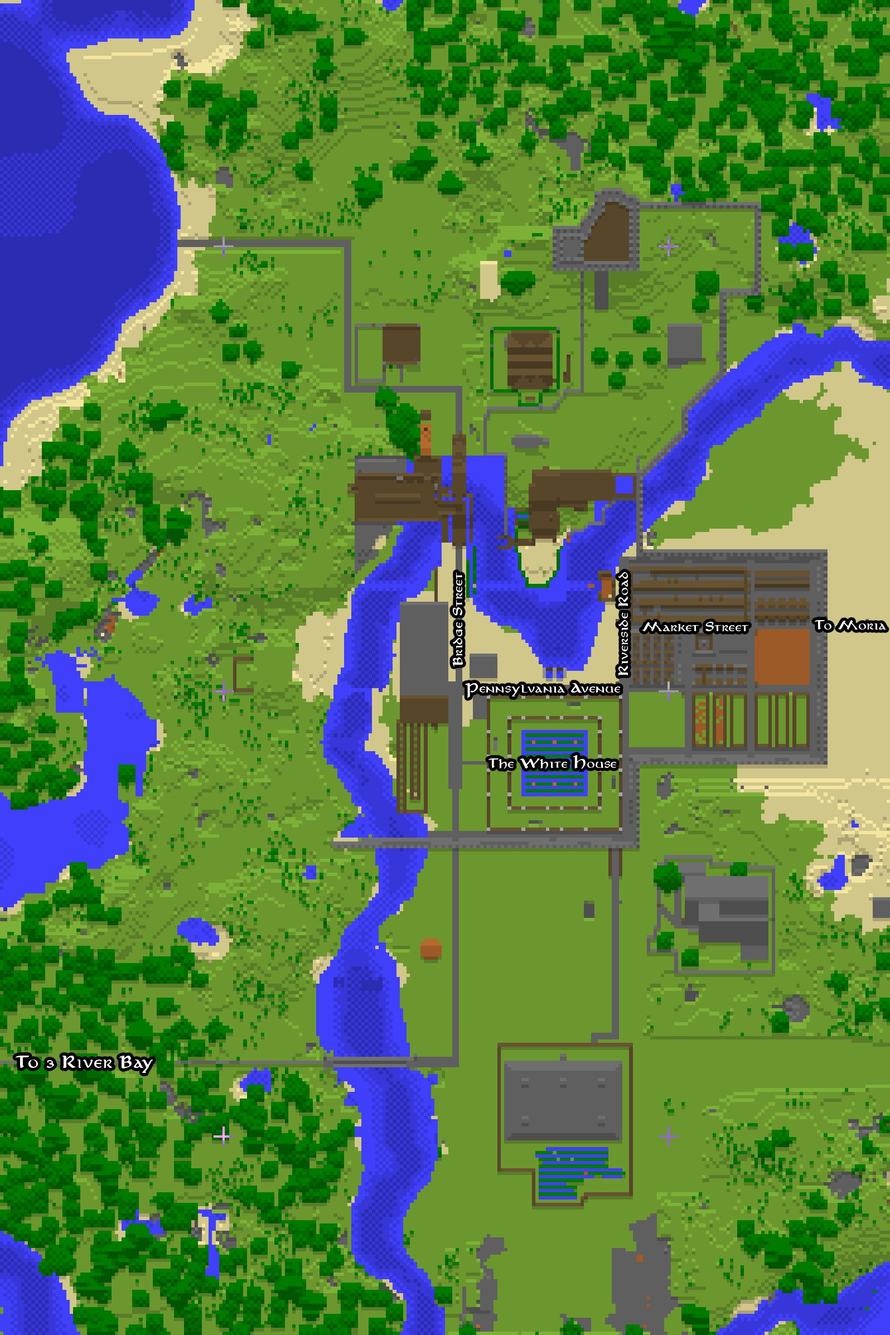
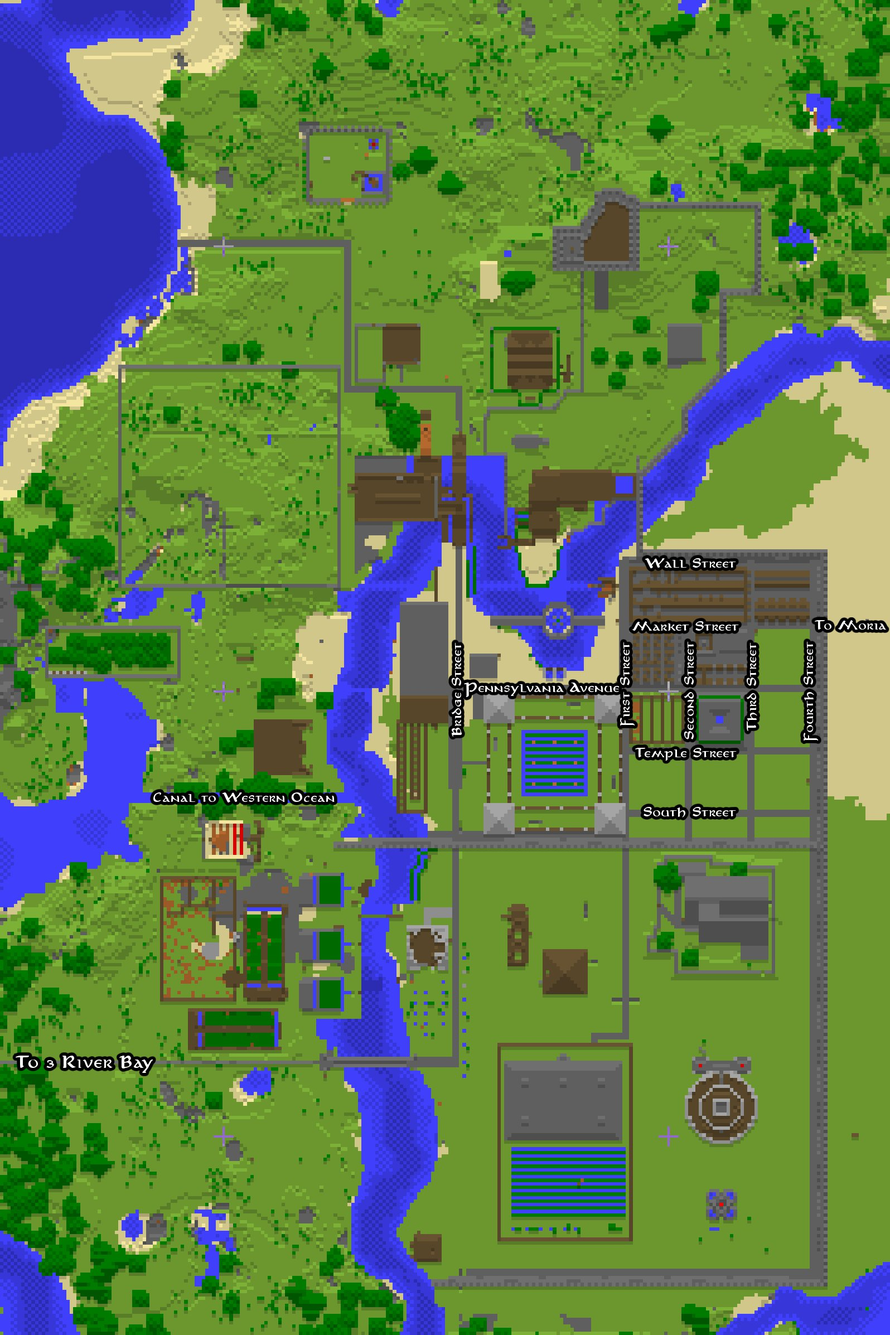
updated minecraft maps

diff --git a/minecraft/index.html b/minecraft/index.html
@@ -11,7 +11,7 @@ minecraft: active
   <li class="active"><a href="#history" data-toggle="tab">History</a></li>
   <li><a href="#technical-details" data-toggle="tab">Technical Details</a></li>
   <li><a href="#rules" data-toggle="tab">Rules</a></li>
-  <li><a href="#subwaymap" data-toggle="tab">Subway Map</a></li>
+  <li><a href="#worldmap" data-toggle="tab">World Map</a></li>
   <li><a href="#citymap" data-toggle="tab">City Map</a></li>
   <li><a href="#mod-help" data-toggle="tab">Mod Help</a></li>
   <li><a href="#gallery" data-toggle="tab">Gallery</a></li>
@@ -99,11 +99,11 @@ minecraft: active
       <li>Completely cut down trees (don't leave bits at the top) and leave waterways open for boat travel.</li>
     </ol>
   </div>
-  <div class="tab-pane fade" id="subwaymap">
+  <div class="tab-pane fade" id="worldmap">
     <div class="page-header">
-      <h1>Subway Map <small>Here's how you get there</small></h1>
+      <h1>World Map <small>The big picture</small></h1>
     </div>
-    <a href="/assets/img/minecraft/subway.jpg" class="thumbnail" style="max-height:500px;max-width:500px;margin-left:auto;margin-right:auto;"><img src="/assets/img/minecraft/subway.jpg" alt=""></a>
+    <a href="/assets/img/minecraft/worldmap.jpg" class="thumbnail" style="margin-left:auto;margin-right:auto;"><img src="/assets/img/minecraft/worldmap.jpg" alt=""></a>
   </div>
   <div class="tab-pane fade" id="citymap">
     <div class="page-header">
